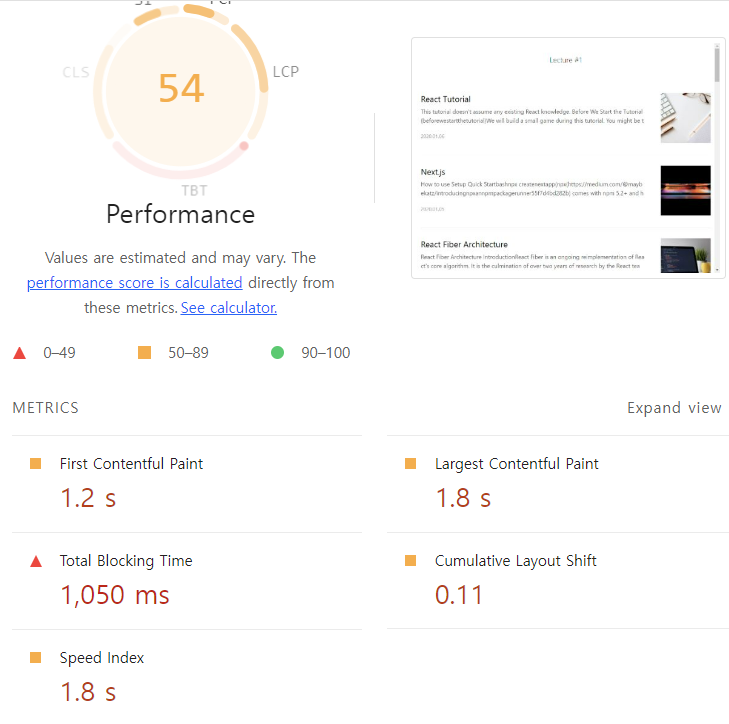
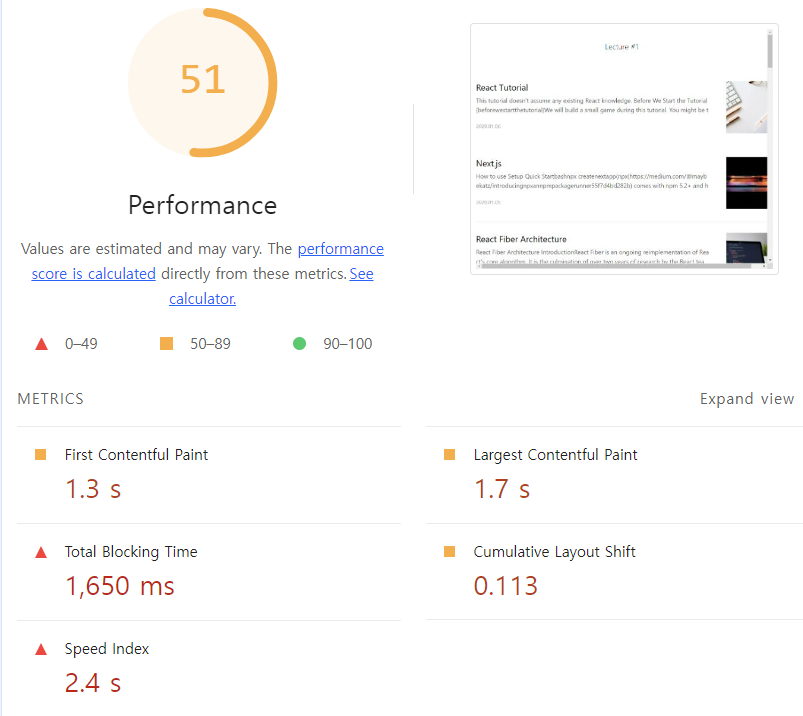
Feat: 이미지 최적화

diff --git a/lecture-1-master/src/components/Article/index.js b/lecture-1-master/src/components/Article/index.js
@@ -1,15 +1,15 @@
-import React from 'react'
+import React from 'react';
 
-import './index.css'
+import './index.css';
 
 function zeroPad(value, len) {
-  const str = '0000000000' + value.toString()
-  return str.substring(str.length - len)
+  const str = '0000000000' + value.toString();
+  return str.substring(str.length - len);
 }
 
 /* 파라미터 참고: https://unsplash.com/documentation#supported-parameters */
-function getParametersForUnsplash({width, height, quality, format}) {
-  return `?w=${width}&h=${height}&q=${quality}&fm=${format}&fit=crop`
+function getParametersForUnsplash({ width, height, quality, format }) {
+  return `?w=${width}&h=${height}&q=${quality}&fm=${format}&fit=crop`;
 }
 
 /*
@@ -17,32 +17,49 @@ function getParametersForUnsplash({width, height, quality, format}) {
  * (Markdown으로 된 문자열의 특수문자를 제거하기 위함)
  * */
 function removeSpecialCharacter(str) {
-  const removeCharacters = ['#', '_', '*', '~', '&', ';', '!', '[', ']', '`', '>', '\n', '=', '-']
-  let _str = str
+  const removeCharacters = [
+    '#',
+    '_',
+    '*',
+    '~',
+    '&',
+    ';',
+    '!',
+    '[',
+    ']',
+    '`',
+    '>',
+    '\n',
+    '=',
+    '-',
+  ];
+  let _str = str;
   let i = 0,
-    j = 0
+    j = 0;
 
   for (i = 0; i < removeCharacters.length; i++) {
-    j = 0
+    j = 0;
     while (j < _str.length) {
       if (_str[j] === removeCharacters[i]) {
-        _str = _str.substring(0, j).concat(_str.substring(j + 1))
-        continue
+        _str = _str.substring(0, j).concat(_str.substring(j + 1));
+        continue;
       }
-      j++
+      j++;
     }
   }
 
-  return _str
+  return _str;
 }
 
 function Article(props) {
-  const createdTime = new Date(props.createdTime)
+  const createdTime = new Date(props.createdTime);
   return (
     <div className={'Article'}>
       <div className={'Article__summary'}>
         <div className={'Article__summary__title'}>{props.title}</div>
-        <div className={'Article__summary__desc'}>{removeSpecialCharacter(props.content)}</div>
+        <div className={'Article__summary__desc'}>
+          {removeSpecialCharacter(props.content)}
+        </div>
         <div className={'Article__summary__etc'}>
           {createdTime.getFullYear() +
             '.' +
@@ -52,10 +69,21 @@ function Article(props) {
         </div>
       </div>
       <div className={'Article__thumbnail'}>
-        <img src={props.image + getParametersForUnsplash({width: 1200, height: 1200, quality: 80, format: 'jpg'})} alt="thumbnail" />
+        <img
+          src={
+            props.image +
+            getParametersForUnsplash({
+              width: 240,
+              height: 240,
+              quality: 80,
+              format: 'jpg',
+            })
+          }
+          alt="thumbnail"
+        />
       </div>
     </div>
-  )
+  );
 }
 
-export default Article
+export default Article;

diff --git a/lecture-1-master/public/index.html b/lecture-1-master/public/index.html
@@ -13,7 +13,7 @@
       manifest.json provides metadata used when your web app is installed on a
       user's mobile device or desktop. See https://developers.google.com/web/fundamentals/web-app-manifest/
     -->
-    <link rel="manifest" href="public/manifest.json" />
+    <link rel="manifest" href="%PUBLIC_URL%/manifest.json" />
     <!--
       Notice the use of %PUBLIC_URL% in the tags above.
       It will be replaced with the URL of the `public` folder during the build.

diff --git a/lecture-1-master/README.md b/lecture-1-master/README.md
@@ -46,5 +46,33 @@
    > 페이지 로드 과정에서 발생하는 예기치 못한 레이아웃 이동을 측정. 레이아웃 이동은 화면 상에서 요소의 위치나 크기가 순간적으로 변하는 것. 15% 가중치.   
 5. Speed Index 
    > 페이지 로드 중 콘텐츠가 시각적으로 표시되는 속도. (skeleton을 적용하면 더 높은 점수 일 수 있다.) 가중치 10%
-6. Time to Interactive
-   > 사용자가 페이지와 상호 작용(클릭, 입력)이 가능한 시점까지 걸리는 시간. 10% 가중치 
+
+- 모바일 환경은 비교적 더 느리다. 
+
+### 이미지 최적화 
+- Diagnotics 항목을 보면 `Properly size images` 를 볼 수 있다.
+    ![alt text](image-1.png)
+- 항목에 어떤 이미지가 적절하지 않은 사이즈인지 보여준다. 
+- 전체 이미지에 대해 최적화 시 약 3,241.9KiB를 절약할 수 있다. 
+- 1 KiB는 2^10 byte로 1024byts. KB는 10^3 = 1,000bytes. 
+  
+  ![alt text](image-2.png)
+- 실제 이미지 사이즈인 Intrinsic size는 1200 * 1200 px이나 렌더 사이즈는 120 * 120px이다.
+- 따라서 사이즈를 더 줄여도 된다. 요즘은 같은 공간에 더 많은 픽셀을 그릴 수 있기 때문에 120px의 두 배인 240 * 240px이 적절하다. 
+- 이 이미지들은 로컬 API 서버가 넘겨준 데이터이다. Network탭 > articles> Preview에서 데이터 형식을 보면 `unsplash.com` 에서 받아오는 이미지임을 확인할 수 있다.
+- 정적 이미지라면 자르면 되지만 API를 통해 받아오는 것은 `Cloudinary`나 `Imgix` 같은 이미지 CDN을 사용해 최적화 한다. 
+
+### 이미지 CDN 
+> CDN(Content Delivery Network)는 물리적 거리의 한계를 극복하기 위해 사용자와 가까운 곳에 콘텐츠 서버를 두는 기술이다. 서버에 있는 리소스를 사용자와 가까운 서버에 캐싱해두어 다운로드 시간을 단축시키는 것.
+
+> 이미지 CDN은 이미지에 튻화된 CDN으로 '__CDN 기능 + 이미지를 특정 형태로 가공해 전달해주는 기능'__ 이 있다.
+
+- `http://cdn.image.com?src=[img src]&width=240&height=240` 이미지 cdn 서버의 주소에 쿼리스트링으로 가져올 이미지 주소, 원하는 형태를 명시해줄 수 있다.
+- 위 방법도 있고, imgix와 같은 cdn 솔루션도 있다. 이 예제에서는 unsplash가 이미지 cdn역할을 하고 있다.
+- getParametersForUnsplash 함수로 전달되는 width와 height를 수정해서 최적화
+
+**변경후**
+![alt text](image-3.png)
+- TBT, SI, LCP등 점수가 많이 상향됨
+  
+### 병목 코드 최적화 
